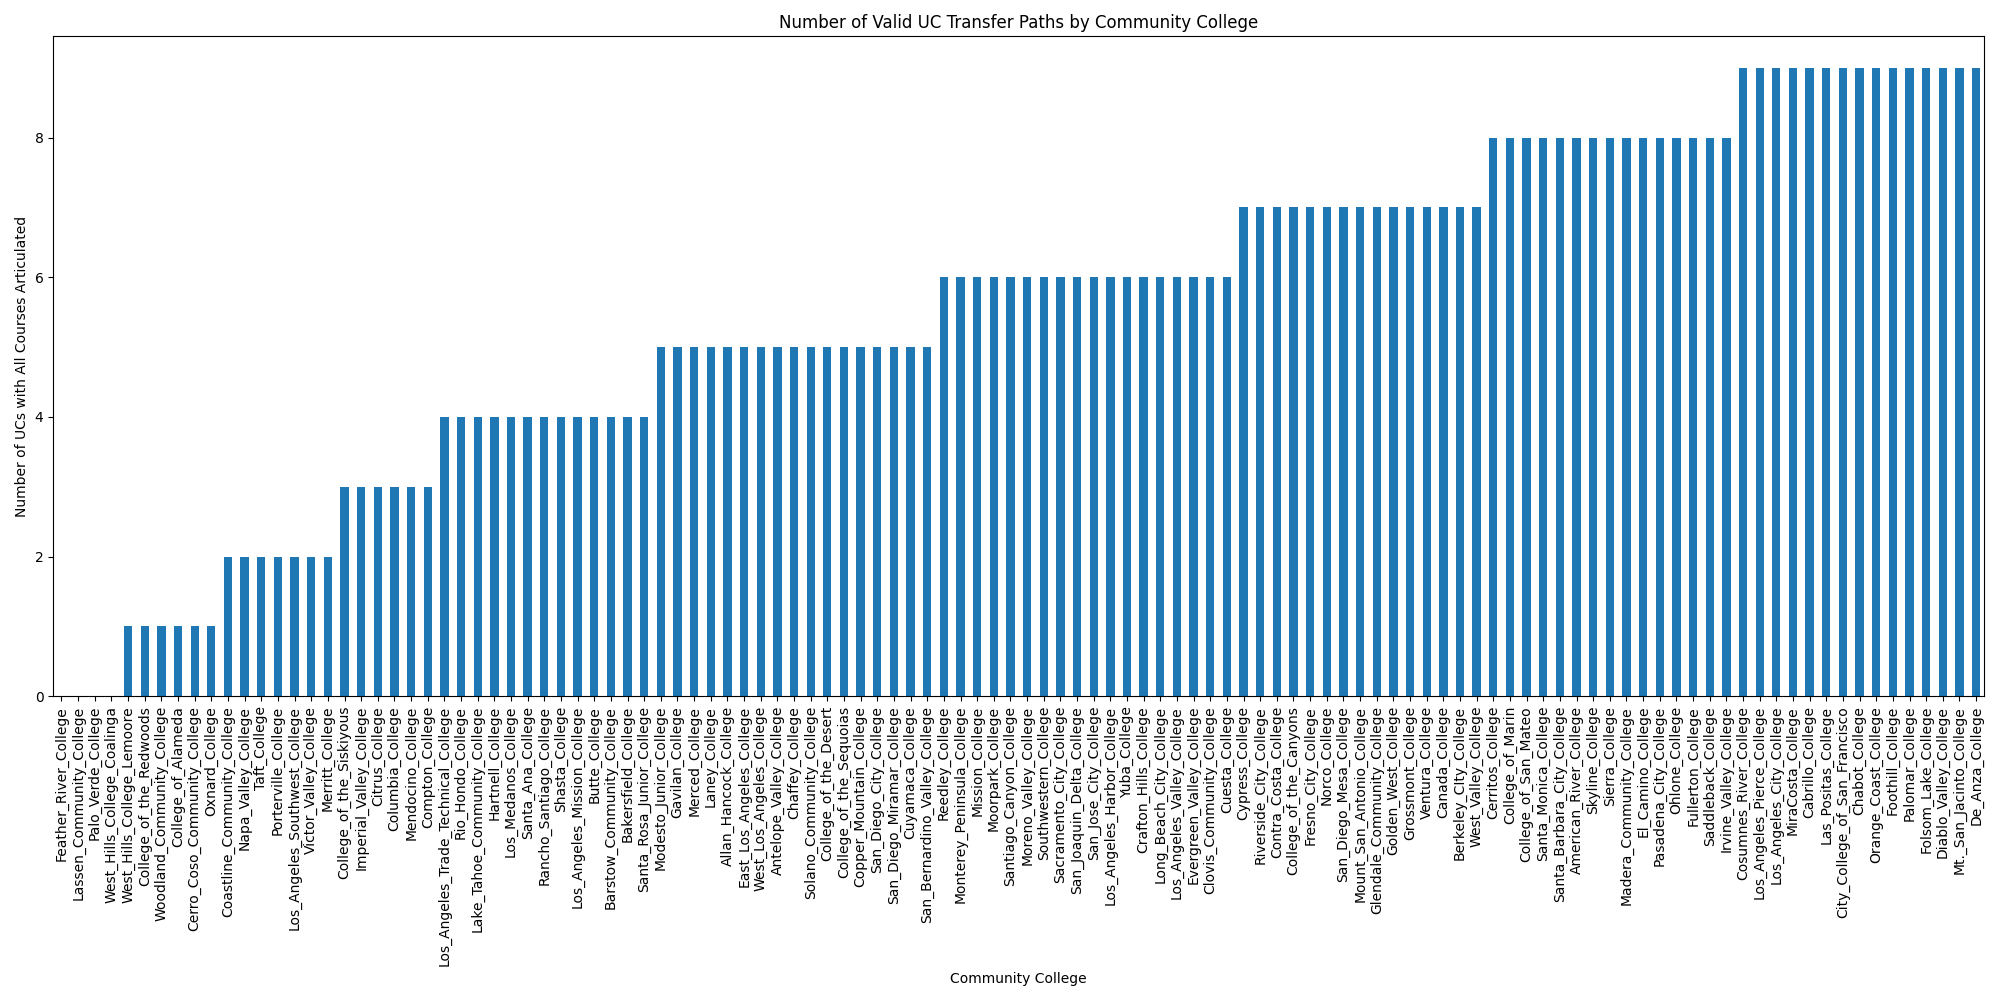
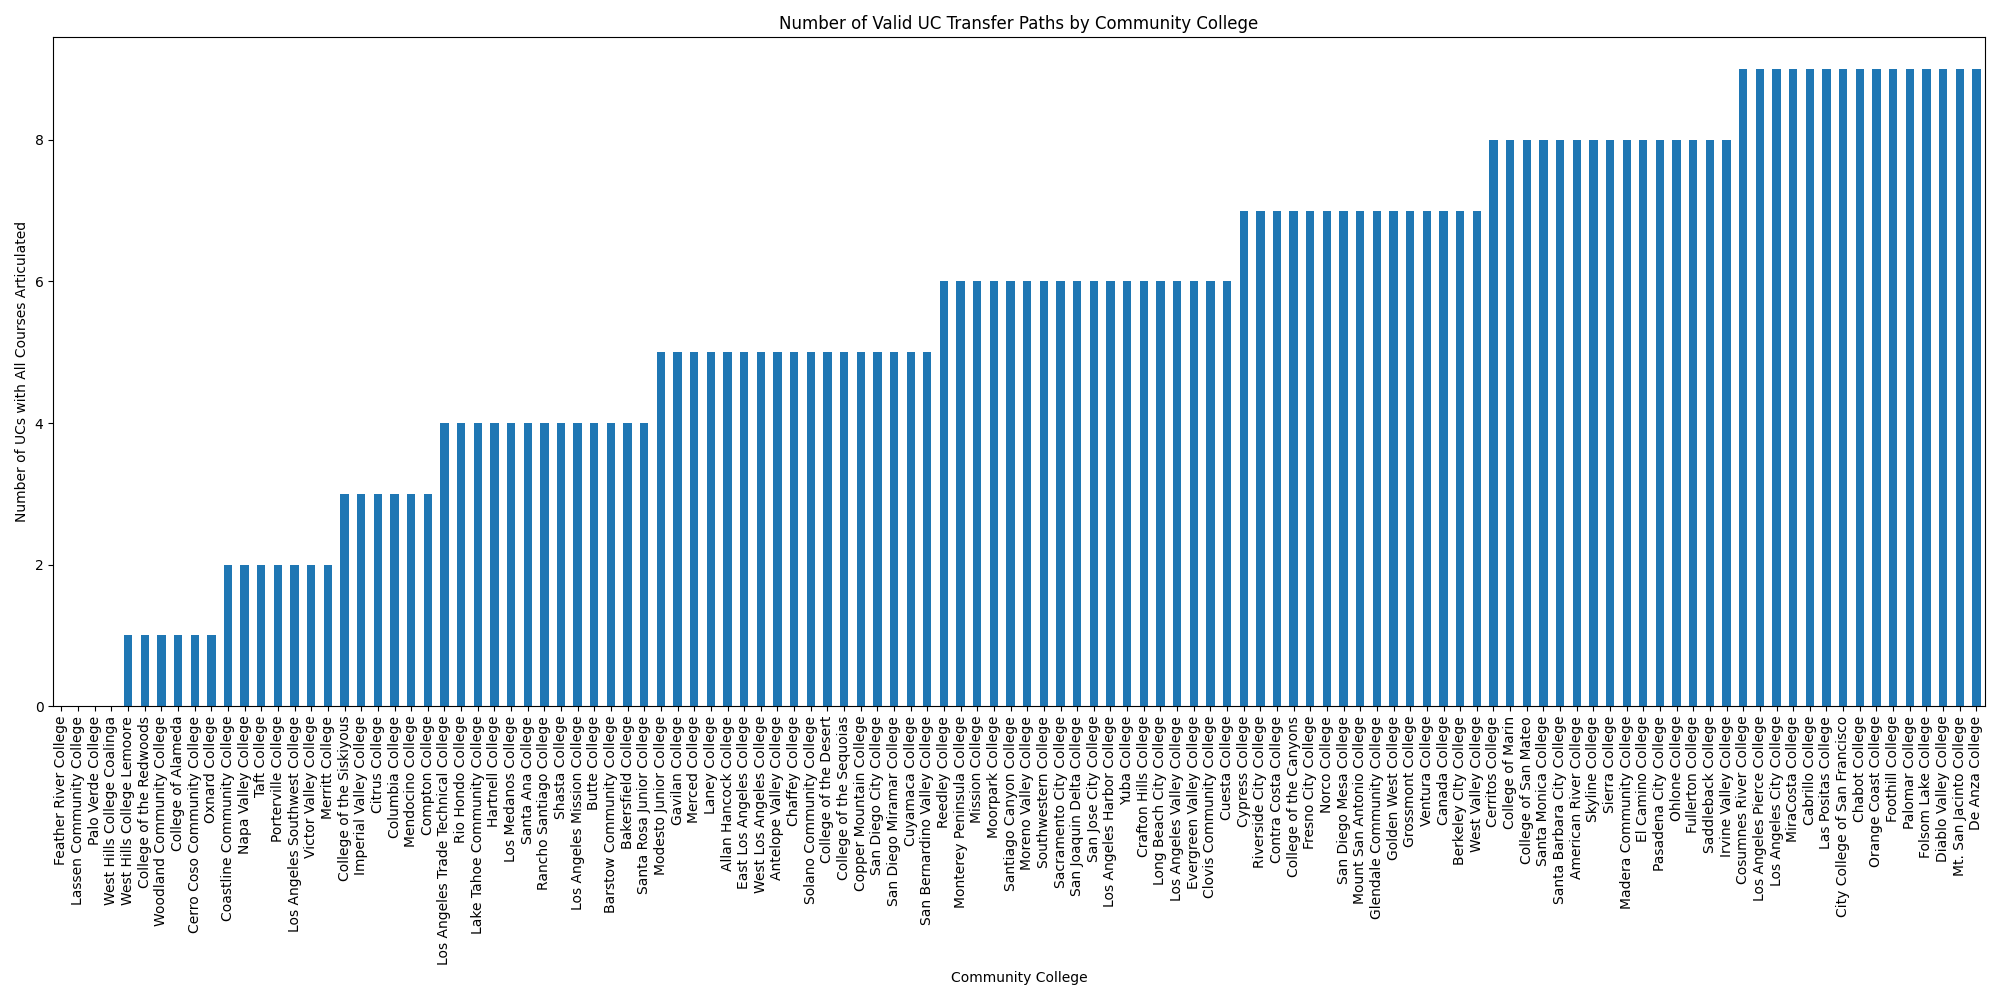
updated previous graphs and added detailed district heatmap

diff --git a/question_2-3/district-level/detailed_district_least_options.py b/question_2-3/district-level/detailed_district_least_options.py
@@ -1,0 +1,217 @@
+import pandas as pd
+import matplotlib.pyplot as plt
+import numpy as np
+import seaborn as sns
+import os
+
+def can_transfer_to_uc(df, uc_name):
+    # Get all requirements for this UC
+    uc_requirements = df[df['UC Name'] == uc_name]
+    unarticulated_courses = []
+    
+    # Group requirements by Group ID to handle sets
+    grouped_reqs = uc_requirements.groupby('Group ID')
+    
+    # Check each group of requirements
+    for group_id, group_data in grouped_reqs:
+        # If there are multiple Set IDs, only one needs to be satisfied
+        set_ids = group_data['Set ID'].unique()
+        if len(set_ids) > 1:
+            # Check if at least one set is satisfied
+            set_satisfied = False
+            best_set_unarticulated = []
+            min_unarticulated = float('inf')
+            
+            for set_id in set_ids:
+                set_data = group_data[group_data['Set ID'] == set_id]
+                current_set_unarticulated = []
+                
+                for _, row in set_data.iterrows():
+                    for col in [col for col in df.columns if col.startswith('Courses Group')]:
+                        if pd.notna(row[col]) and 'Not Articulated' in str(row[col]):
+                            current_set_unarticulated.append(row['Receiving'])
+                            
+                if len(current_set_unarticulated) == 0:
+                    set_satisfied = True
+                    break
+                elif len(current_set_unarticulated) < min_unarticulated:
+                    min_unarticulated = len(current_set_unarticulated)
+                    best_set_unarticulated = current_set_unarticulated
+                    
+            if not set_satisfied:
+                unarticulated_courses.extend(best_set_unarticulated)
+        else:
+            # Single set ID - all courses must be satisfied
+            for _, row in group_data.iterrows():
+                for col in [col for col in df.columns if col.startswith('Courses Group')]:
+                    if pd.notna(row[col]) and 'Not Articulated' in str(row[col]):
+                        unarticulated_courses.append(row['Receiving'])
+    
+    return unarticulated_courses
+
+def count_transfer_options(file_path):
+    """
+    Reads a district CSV file and returns:
+      - district_name
+      - DataFrame with columns [UC Name, counts, unarticulated_courses]
+        where `unarticulated_courses` is a '\n'-joined list of
+        "Group X: course1, course2, …" lines.
+    """
+    df = pd.read_csv(file_path)
+    district_name = os.path.basename(file_path).replace('.csv', '').replace('_', ' ')
+    
+    records = []
+    for uc in df['UC Name'].unique():
+        uc_df = df[df['UC Name'] == uc]
+        # gather unarticulated courses by group, considering Set IDs
+        grouped = {}
+        for group_id, group_data in uc_df.groupby('Group ID'):
+            # Check if this group has multiple Set IDs
+            set_ids = group_data['Set ID'].unique()
+            if len(set_ids) > 1:
+                # For multiple Set IDs, check if any set is fully articulated
+                set_satisfied = False
+                best_set_courses = None
+                min_unarticulated = float('inf')
+                
+                for set_id in set_ids:
+                    set_data = group_data[group_data['Set ID'] == set_id]
+                    current_set_unarticulated = set()
+                    
+                    for _, row in set_data.iterrows():
+                        for col in [c for c in df.columns if c.startswith('Courses Group')]:
+                            if pd.notna(row[col]) and 'Not Articulated' in str(row[col]):
+                                current_set_unarticulated.add(row['Receiving'])
+                    
+                    if len(current_set_unarticulated) == 0:
+                        set_satisfied = True
+                        break
+                    elif len(current_set_unarticulated) < min_unarticulated:
+                        min_unarticulated = len(current_set_unarticulated)
+                        best_set_courses = current_set_unarticulated
+                
+                if not set_satisfied and best_set_courses:
+                    grouped[group_id] = best_set_courses
+            else:
+                # Single Set ID - check all courses
+                unarticulated = set()
+                for _, row in group_data.iterrows():
+                    for col in [c for c in df.columns if c.startswith('Courses Group')]:
+                        if pd.notna(row[col]) and 'Not Articulated' in str(row[col]):
+                            unarticulated.add(row['Receiving'])
+                if unarticulated:
+                    grouped[group_id] = unarticulated
+        
+        # build the multi-line string
+        if grouped:
+            lines = []
+            for gid, courses in sorted(grouped.items()):
+                courses_list = sorted(courses)
+                lines.append(f"{gid}: {', '.join(courses_list)}")
+            detail = "\n".join(lines)
+            count = 0
+        else:
+            detail = ""    # fully articulated → blank cell
+            count = 1
+    
+        records.append({
+            'UC Name': uc,
+            'counts': count,
+            'unarticulated_courses': detail
+        })
+    
+    return district_name, pd.DataFrame(records)
+    
+def analyze_all_districts(directory):
+    all_data = []
+    
+    # Process all CSV files in the directory
+    for file in os.listdir(directory):
+        if file.endswith('.csv'):
+            file_path = os.path.join(directory, file)
+            district_name, transfer_counts = count_transfer_options(file_path)
+            
+            # Add district name to each row
+            transfer_counts['District'] = district_name
+            all_data.append(transfer_counts)
+    
+    # Combine all data
+    combined_data = pd.concat(all_data, ignore_index=True)
+    return combined_data
+
+def create_heatmap(data):
+    # --- detailed view with per-group lines ---
+    plt.figure(figsize=(30, 80))
+    detailed = data.pivot(index='District', columns='UC Name', values='unarticulated_courses')
+    # blank → NaN so that isna()==True means "good" → green
+    detailed = detailed.replace('', np.nan)
+    status = detailed.isna().astype(int)
+
+    sns.heatmap(
+        status,
+        cmap='RdYlGn',
+        cbar=False,
+        vmin=0,
+        vmax=1,
+        linewidths=1,
+        linecolor='black',
+        square=False,  # Allow rectangular cells
+        annot=False
+    )
+
+    # overlay each cell's multi-line detail
+    for i, district in enumerate(detailed.index):
+        for j, uc in enumerate(detailed.columns):
+            text = detailed.iat[i, j]
+            if pd.notna(text):
+                plt.text(
+                    j + 0.5, i + 0.5,
+                    text,
+                    ha='center', va='center',
+                    wrap=True, fontsize=8,
+                    color='white', fontweight='bold'
+                )
+
+    plt.title('Detailed District Articulation (Green = OK, Red = Missing)', pad=20)
+    plt.ylabel('Community College District')
+    plt.xlabel('UC Campus')
+    plt.xticks(rotation=30, ha='right')
+    plt.yticks(rotation=0)
+    plt.tight_layout()
+    detailed_out = os.path.join(
+        os.path.dirname(os.path.abspath(__file__)),
+        'detailed_district_transfer_availability_heatmap.png'
+    )
+    plt.savefig(detailed_out, dpi=300, bbox_inches='tight')
+    plt.close()
+
+def main():
+    # Directory containing the district CSV files
+    script_dir = os.path.dirname(os.path.abspath(__file__))
+    directory = os.path.normpath(os.path.join(script_dir, '../../district_csvs'))
+    
+    # Analyze all districts
+    combined_data = analyze_all_districts(directory)
+    
+    # Create visualizations
+    create_heatmap(combined_data)
+    
+    # Find district with fewest options
+    total_options = combined_data.groupby('District')['counts'].sum()
+    min_district = total_options.idxmin()
+    min_count = total_options.min()
+    
+    print(f"\nDistrict with fewest valid UC transfer paths: {min_district}")
+    print(f"Number of UCs with all courses articulated: {min_count}")
+    
+    # Show which UCs have all courses articulated and which courses are not articulated
+    district_data = combined_data[combined_data['District'] == min_district]
+    print(f"\nDetailed transfer information for {min_district}:")
+    for _, row in district_data.iterrows():
+        if row['counts'] == 1:
+            print(f"- {row['UC Name']}: All courses articulated")
+        else:
+            print(f"- {row['UC Name']}: Missing articulation for {row['unarticulated_courses']}")
+
+if __name__ == "__main__":
+    main()

diff --git a/question_2-3/cc-level/detailed_least_options.py b/question_2-3/cc-level/detailed_least_options.py
@@ -130,6 +130,8 @@ def analyze_all_colleges(directory):
         if file.endswith('_filtered.csv'):
             file_path = os.path.join(directory, file)
             college_name, transfer_counts = count_transfer_options(file_path)
+
+            college_name = college_name.replace('_', ' ')
             
             # Add college name to each row
             transfer_counts['College'] = college_name
@@ -140,27 +142,8 @@ def analyze_all_colleges(directory):
     return combined_data
 
 def create_heatmap(data):
-    """
-    Creates two files:
-      - transfer_availability_heatmap.png  (binary 0/1 overview)
-      - detailed_transfer_availability_heatmap.png
-    The detailed version overlays each group’s missing courses
-    on the red cells, one line per group.
-    """
-    # --- binary overview (unchanged) ---
-    # plt.figure(figsize=(20, 30))
-    # hm = data.pivot(index='College', columns='UC Name', values='counts')
-    # sns.heatmap(hm, annot=True, cmap='RdYlGn', fmt='g', vmin=0, vmax=1)
-    # plt.title('Valid Transfer Paths to UCs\n(1 = all articulated, 0 = some missing)', pad=20)
-    # plt.ylabel('Community College')
-    # plt.xlabel('UC Campus')
-    # plt.xticks(rotation=30, ha='right')
-    # plt.tight_layout()
-    # plt.savefig('transfer_availability_heatmap.png', dpi=300, bbox_inches='tight')
-    # plt.close()
-
     # --- detailed view with per-group lines ---
-    plt.figure(figsize=(30, 80))
+    plt.figure(figsize=(30, 85))
     detailed = data.pivot(index='College', columns='UC Name', values='unarticulated_courses')
     # blank → NaN so that isna()==True means "good" → green
     detailed = detailed.replace('', np.nan)
@@ -203,22 +186,6 @@ def create_heatmap(data):
     )
     plt.savefig(detailed_out, dpi=300, bbox_inches='tight')
     plt.close()
-
-# def create_bar_plot(data):
-#     # Calculate total transfer options per college
-#     total_options = data.groupby('College')['counts'].sum().sort_values()
-    
-#     plt.figure(figsize=(20, 10))
-#     ax = total_options.plot(kind='bar')
-#     plt.title('Number of Valid UC Transfer Paths by Community College')
-#     plt.xlabel('Community College')
-#     plt.ylabel('Number of UCs with All Courses Articulated')
-#     plt.xticks(rotation=90, ha='center')
-#     plt.subplots_adjust(bottom=0.2)
-#     plt.tight_layout()
-#     output_path = os.path.join(os.path.dirname(os.path.abspath(__file__)), 'total_transfer_availability.png')
-#     plt.savefig(output_path)
-#     plt.close()
 
 def main():
     # Directory containing the filtered CSV files

diff --git a/question_2-3/district-level/district_least_options.py b/question_2-3/district-level/district_least_options.py
@@ -92,10 +92,10 @@ def create_heatmap(data):
     heatmap_data = data.pivot(index='District', columns='UC Name', values='counts')
     
     # Create a figure with larger size
-    plt.figure(figsize=(20, 30))  # Increased height to accommodate all districts
+    plt.figure(figsize=(15, 30))  # Increased height to accommodate all districts
     
     # Create heatmap with a different colormap to emphasize binary nature
-    sns.heatmap(heatmap_data, annot=True, cmap='RdYlGn', fmt='g', vmin=0, vmax=1)
+    sns.heatmap(heatmap_data, annot=True, cbar=False, cmap='RdYlGn', fmt='g', vmin=0, vmax=1, linewidths=1, linecolor='black')
     plt.title('Valid Transfer Paths to UCs by District\n(1=All courses articulated, 0=Some courses not articulated)', pad=20)
     plt.ylabel('Community College District')
     plt.xlabel('UC Campus')

diff --git a/question_2-3/cc-level/least_options.py b/question_2-3/cc-level/least_options.py
@@ -69,6 +69,9 @@ def analyze_all_colleges(directory):
             file_path = os.path.join(directory, file)
             college_name, transfer_counts = count_transfer_options(file_path)
             
+            # Remove underscores and replace with spaces
+            college_name = college_name.replace('_', ' ')
+            
             # Add college name to each row
             transfer_counts['College'] = college_name
             all_data.append(transfer_counts)
